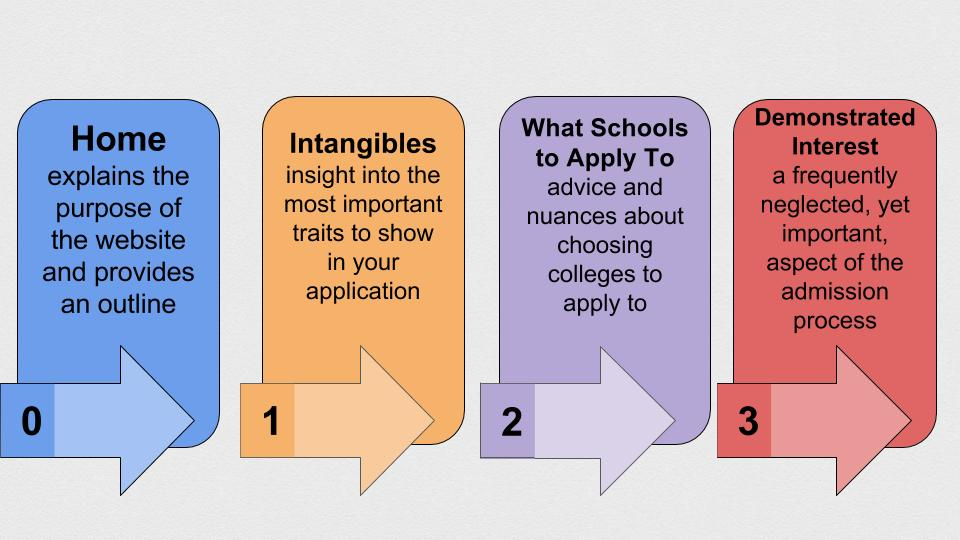
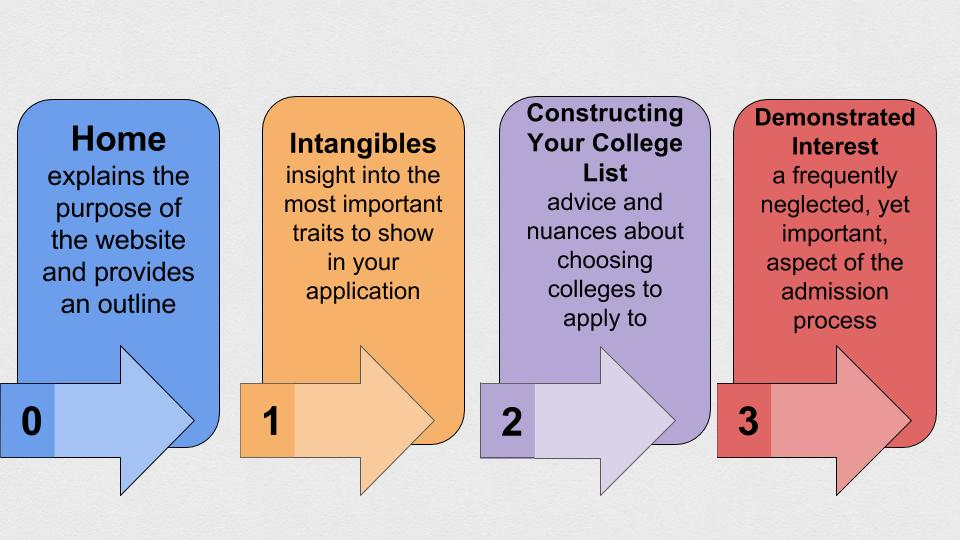
constructing your college list

Changed region(s): [[0.5312, 0.1778, 0.7188, 0.6222]]

diff --git a/Logic Flaws/index.html b/Logic Flaws/index.html
@@ -12,7 +12,7 @@
       <li><a href="../Intangibles/index.html">Intangibles</a></li>
       <li><a href="../What%20Schools%20to%20Apply%20To/index.html">Application Strategy <div id = "tri"></div></a>
         <ul class = "sub-nav">
-          <li><a href = "../What%20Schools%20to%20Apply%20To/index.html">What Schools To Apply To</a></li>
+          <li><a href = "../What%20Schools%20to%20Apply%20To/index.html">Constructing Your College List</a></li>
           <li><a href="../Demonstrated%20Interest/index.html">Demonstrated Interest</a></li>
         </ul>
       </li>
@@ -76,7 +76,7 @@
     <img src = "calc.png" width = 100%></img>
     <p>There are a lot of flaws with the calculators including the fact that they are not based on a standardized GPA system (they allow weighted mixed in with unweighted) and they don't take into account the strength of your curriculum. The entire mindset behind the calculators, though tempting to engage in, is flawed.</p>
     <p>If you capitalize on all of the intangibles (and the admissions officer is able to see that) and have the grades, scores and difficult courses then you will get in. There is subjectivity to the process but that does not mean that you have an easily discernible 'percent chance' of getting into a school. </p>
-    <p>I bring these calculators up to address that mindset. Be wary of trying to give yourself a percent chance of acceptance. Although it sometimes can be useful and necessary, it often can distort the way you are applying to schools. <span style = "font-weight: bold; color: darkblue">Use the school's 25th to 75th percentiles testing scores and grades for admitted students along with its acceptance rate to gauge your chances, not these calculators </span>(<a href = "../What%20Schools%20to%20Apply%20To/index.html#yourschools">'Your Schools' in "What Schools To Apply To")</a>.</p>
+    <p>I bring these calculators up to address that mindset. Be wary of trying to give yourself a percent chance of acceptance. Although it sometimes can be useful and necessary, it often can distort the way you are applying to schools. <span style = "font-weight: bold; color: darkblue">Use the school's 25th to 75th percentiles testing scores and grades for admitted students along with its acceptance rate to gauge your chances, not these calculators </span>(<a href = "../What%20Schools%20to%20Apply%20To/index.html#yourschools">'Your Schools' in "Constructing Your College List")</a>.</p>
     <p>You may hear people bring up that colleges use their own ‘calculators’ to evaluate candidates. This may be true, but if it is then colleges assign values to your scores and grades (and strength of class schedule) but do so to your intangibles as well - extracurriculars and personality. So, even if this is true (and I am very dubious of that claim) these admission calculators you see online are assuredly not what actual admissions officers use.</p>
   </div><br><br><br>
 

diff --git a/What Schools to Apply To/index.html b/What Schools to Apply To/index.html
@@ -12,7 +12,7 @@
       <li><a href="../Intangibles/index.html">Intangibles</a></li>
       <li><a href="../What%20Schools%20to%20Apply%20To/index.html">Application Strategy <div id = "tri"></div></a>
         <ul class = "sub-nav">
-          <li><a href = "../What%20Schools%20to%20Apply%20To/index.html">What Schools To Apply To</a></li>
+          <li><a href = "../What%20Schools%20to%20Apply%20To/index.html">Constructing Your College List</a></li>
           <li><a href="../Demonstrated%20Interest/index.html">Demonstrated Interest</a></li>
         </ul>
       </li>
@@ -29,7 +29,7 @@
     </ul>
   </nav>
 <div class = "top-t">
-  <p>Constructing Your List of Colleges</p>
+  <p>Constructing Your College List</p>
   </div>
   <div class = "content">
     <p>I must stress the importance of carefully selecting your college list. This is intuitive, but I can’t tell you how many times students will say that they don’t want to go to a school they got into because it’s too urban, big, hot, etc. </p>

diff --git a/index.html b/index.html
@@ -95,7 +95,7 @@ ga('send', 'pageview');
       <li><a href="Intangibles/index.html">Intangibles</a></li>
       <li><a href="What%20Schools%20to%20Apply%20To/index.html">Application Strategy <div id = "tr"></div></a>
         <ul class = "sub-nav">
-          <li><a href = "What%20Schools%20to%20Apply%20To/index.html">What Schools To Apply To</a></li>
+          <li><a href = "What%20Schools%20to%20Apply%20To/index.html">Constructing Your College List</a></li>
           <li><a href="Demonstrated%20Interest/index.html">Demonstrated Interest</a></li>
         </ul>
       </li>
@@ -160,7 +160,7 @@ ga('send', 'pageview');
   </tr>
 <tr>
   <td>6/7/17</td>
-  <td><a href = "What%20Schools%20to%20Apply%20To/index.html#yourschools">Safety, Just Right, Reach Graphic in "What Schools to Apply To"</a></td>
+  <td><a href = "What%20Schools%20to%20Apply%20To/index.html#yourschools">Safety, Just Right, Reach Graphic in "Constructing Your College List"</a></td>
 </tr>
 <tr>
 <td>6/11/17</td>

diff --git a/Testing/AP/index.html b/Testing/AP/index.html
@@ -12,7 +12,7 @@
       <li><a href="../../Intangibles/index.html">Intangibles</a></li>
       <li><a href="../../What%20Schools%20to%20Apply%20To/index.html">Application Strategy <div id = "tri"></div></a>
         <ul class = "sub-nav">
-          <li><a href = "../../What%20Schools%20to%20Apply%20To/index.html">What Schools To Apply To</a></li>
+          <li><a href = "../../What%20Schools%20to%20Apply%20To/index.html">Constructing Your College List</a></li>
           <li><a href="../../Demonstrated%20Interest/index.html">Demonstrated Interest</a></li>
         </ul>
       </li>

diff --git a/Testing/Standardized Testing/index.html b/Testing/Standardized Testing/index.html
@@ -12,7 +12,7 @@
       <li><a href="../../Intangibles/index.html">Intangibles</a></li>
       <li><a href="../../What%20Schools%20to%20Apply%20To/index.html">Application Strategy <div id = "tri"></div></a>
         <ul class = "sub-nav">
-          <li><a href = "../../What%20Schools%20to%20Apply%20To/index.html">What Schools To Apply To</a></li>
+          <li><a href = "../../What%20Schools%20to%20Apply%20To/index.html">Constructing Your College List</a></li>
           <li><a href="../../Demonstrated%20Interest/index.html">Demonstrated Interest</a></li>
         </ul>
       </li>

diff --git a/Testing/Subject Tests/index.html b/Testing/Subject Tests/index.html
@@ -12,7 +12,7 @@
       <li><a href="../../Intangibles/index.html">Intangibles</a></li>
       <li><a href="../../What%20Schools%20to%20Apply%20To/index.html">Application Strategy <div id = "tri"></div></a>
         <ul class = "sub-nav">
-          <li><a href = "../../What%20Schools%20to%20Apply%20To/index.html">What Schools To Apply To</a></li>
+          <li><a href = "../../What%20Schools%20to%20Apply%20To/index.html">Constructing Your College List</a></li>
           <li><a href="../../Demonstrated%20Interest/index.html">Demonstrated Interest</a></li>
         </ul>
       </li>

diff --git a/About Me/index.html b/About Me/index.html
@@ -12,7 +12,7 @@
       <li><a href="../Intangibles/index.html">Intangibles</a></li>
       <li><a href="../What%20Schools%20to%20Apply%20To/index.html">Application Strategy <div id = "tri"></div></a>
         <ul class = "sub-nav">
-          <li><a href = "../What%20Schools%20to%20Apply%20To/index.html">What Schools To Apply To</a></li>
+          <li><a href = "../What%20Schools%20to%20Apply%20To/index.html">Constructing Your College List</a></li>
           <li><a href="../Demonstrated%20Interest/index.html">Demonstrated Interest</a></li>
         </ul>
       </li>

diff --git a/Demonstrated Interest/index.html b/Demonstrated Interest/index.html
@@ -12,7 +12,7 @@
       <li><a href="../Intangibles/index.html">Intangibles</a></li>
       <li><a href="../What%20Schools%20to%20Apply%20To/index.html">Application Strategy <div id = "tri"></div></a>
         <ul class = "sub-nav">
-          <li><a href = "../What%20Schools%20to%20Apply%20To/index.html">What Schools To Apply To</a></li>
+          <li><a href = "../What%20Schools%20to%20Apply%20To/index.html">Constructing Your College List</a></li>
           <li><a href="../Demonstrated%20Interest/index.html">Demonstrated Interest</a></li>
         </ul>
       </li>

diff --git a/Intangibles/index.html b/Intangibles/index.html
@@ -12,7 +12,7 @@
       <li><a href="../Intangibles/index.html">Intangibles</a></li>
       <li><a href="../What%20Schools%20to%20Apply%20To/index.html">Application Strategy <div id = "tri"></div></a>
         <ul class = "sub-nav">
-          <li><a href = "../What%20Schools%20to%20Apply%20To/index.html">What Schools To Apply To</a></li>
+          <li><a href = "../What%20Schools%20to%20Apply%20To/index.html">Constructing Your College List</a></li>
           <li><a href="../Demonstrated%20Interest/index.html">Demonstrated Interest</a></li>
         </ul>
       </li>

diff --git a/Personal Guidance/index.html b/Personal Guidance/index.html
@@ -13,7 +13,7 @@
       <li><a href="../Intangibles/index.html">Intangibles</a></li>
       <li><a href="../What%20Schools%20to%20Apply%20To/index.html">Application Strategy <div id = "tri"></div></a>
         <ul class = "sub-nav">
-          <li><a href = "../What%20Schools%20to%20Apply%20To/index.html">What Schools To Apply To</a></li>
+          <li><a href = "../What%20Schools%20to%20Apply%20To/index.html">Constructing Your College List</a></li>
           <li><a href="../Demonstrated%20Interest/index.html">Demonstrated Interest</a></li>
         </ul>
       </li>
